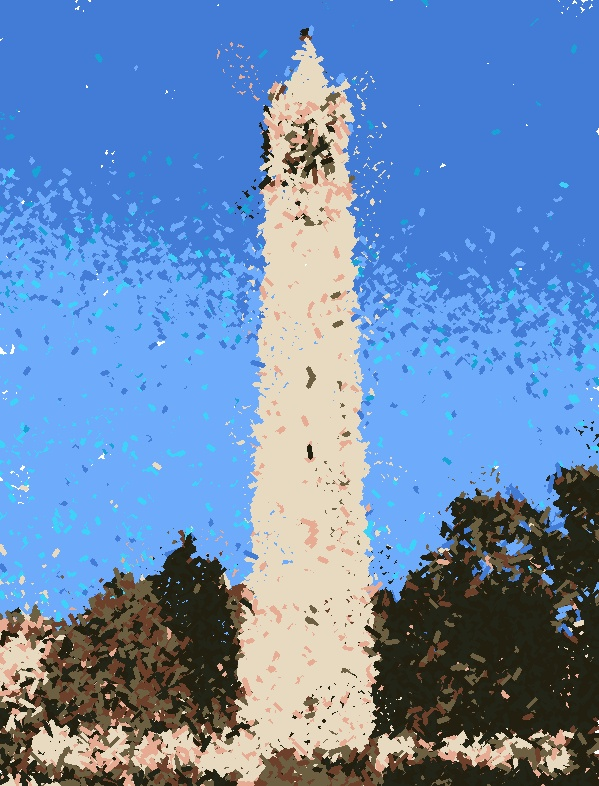
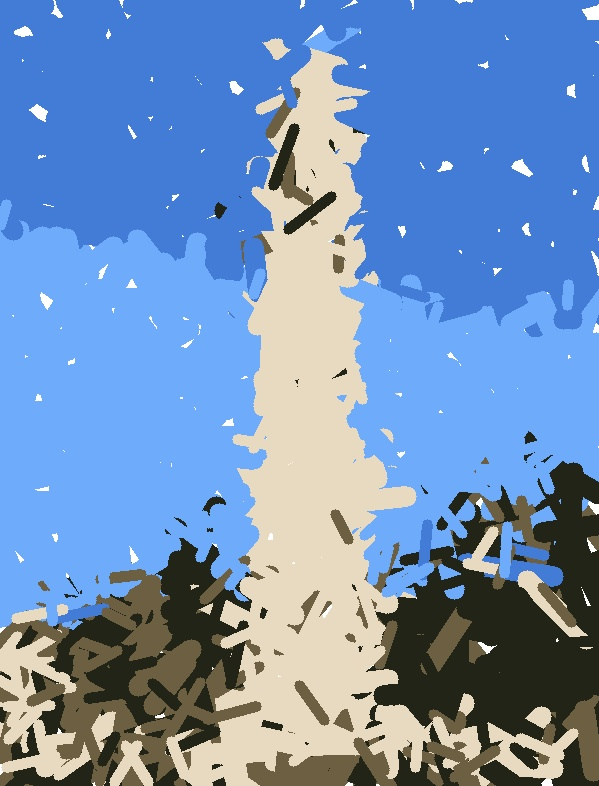
Add weighted_randomized_grid and reduce stroke count

diff --git a/Pointillism/main.py b/Pointillism/main.py
@@ -6,12 +6,13 @@ from pointillism import *
 from pointillism.paint import Paint
 
 
+
 parser = argparse.ArgumentParser(description='...')
 parser.add_argument('--palette-size', default=5, type=int, help="Number of colors of the base palette")
 parser.add_argument('--stroke-scale', default=3, type=int, help="Scale of the brush strokes (0 = automatic)")
 parser.add_argument('--gradient-smoothing-radius', default=5, type=int, help="Radius of the smooth filter applied to the gradient (0 = automatic)")
 parser.add_argument('--limit-image-size', default=800, type=int, help="Limit the image size (0 = no limits)")
-parser.add_argument('img_path', nargs='?', default="images/campanile.jpeg")
+parser.add_argument('img_path', nargs='?', default="Pointillism/images/campanile.jpeg")
 
 args = parser.parse_args()
 
@@ -38,13 +39,14 @@ gray = cv2.cvtColor(img, cv2.COLOR_BGR2GRAY)
 
 print("Computing color palette...")
 palette = ColorPalette.from_image(img, args.palette_size)
+print(palette)
 
 print("Extending color palette...")
-palette = palette.extend([(-15, 50, 0)]) # palette.extend([(0, 50, 0), (15, 30, 0), (-15, 30, 0)])
+palette = palette.extend([(0, 50, 0), (15, 30, 0), (-15, 30, 0)]) # palette.extend([(0, 50, 0), (15, 30, 0), (-15, 30, 0)])
 
-# # display the color palette
-# cv2.imshow("palette", palette.to_image())
-# cv2.waitKey(200)
+# display the color palette
+cv2.imshow("palette", palette.to_image())
+cv2.waitKey(200)
 
 print("Computing gradient...")
 gradient = VectorField.from_gradient(gray)
@@ -52,25 +54,39 @@ gradient = VectorField.from_gradient(gray)
 print("Smoothing gradient...")
 gradient.smooth(gradient_smoothing_radius)
 
-# print("Displaying gradient...")
-# gradient.display_direction()
-
 print("Drawing image...")
 # create a "cartonized" version of the image to use as a base for the painting
-res = cv2.medianBlur(img, 11)
-res = np.ones_like(res) * 255
+ref = cv2.medianBlur(img, 11)
+res = np.ones_like(img) * 255
 
-# define a randomized grid of locations for the brush strokes
-grid = randomized_grid(img.shape[0], img.shape[1], scale=30)
-print(len(grid))
+# define a randomized base grid of locations for the brush strokes
+baseGrid = randomized_grid(img.shape[0], img.shape[1], scale=30)
+print(len(baseGrid))
 batch_size = 10000
 
-base = Paint(img, res, palette, gradient, 30, 30, batch_size)
+base = Paint(img, res, palette, gradient, 30, baseGrid, batch_size)
 base.draw_strokes()
 
-paint = Paint(img, res, palette, gradient, stroke_scale, 5, batch_size)
-paint.draw_strokes()
+# define a coarse grid of locations for brush strokes
+img_weight = cv2.subtract(ref, res)
+img_weight = cv2.cvtColor(img_weight, cv2.COLOR_BGR2GRAY)
+medGrid = weighted_randomized_grid(img_weight, 10, bias=0.5)
+# medGrid = randomized_grid(img.shape[0], img.shape[1], scale=10)
+print(len(medGrid))
+coarse = Paint(img, res, palette, gradient, 10, medGrid, batch_size)
+coarse.draw_strokes(reduce=True)
 
-cv2.imshow("res", limit_size(res, 1080))
-cv2.imwrite(res_path, res)
-cv2.waitKey(0)
+# define a finer grid of locations for the brush strokes
+img_weight = cv2.subtract(ref, res)
+img_weight = cv2.cvtColor(img_weight, cv2.COLOR_BGR2GRAY)
+fineGrid = weighted_randomized_grid(img_weight, 3, bias=0.3)
+
+# fineGrid = randomized_grid(img.shape[0], img.shape[1], scale=2)
+print(len(fineGrid))
+
+paint = Paint(img, res, palette, gradient, 4, fineGrid, batch_size)
+paint.draw_strokes(reduce=True)
+
+# cv2.imshow("res", limit_size(res, 1080))
+# cv2.imwrite(res_path, res)
+# cv2.waitKey(0)

diff --git a/Pointillism/pointillism/paint.py b/Pointillism/pointillism/paint.py
@@ -4,40 +4,53 @@ import progressbar
 from pointillism import *
 
 class Paint:
-  def __init__(self, img, res, palette, gradient, stroke_scale, grid_scale, batch_size):
+  def __init__(self, img, res, palette, gradient, stroke_scale, grid, batch_size):
     self.img = img
     self.res = res
     self.palette = palette
     self.gradient = gradient
     self.stroke_scale = stroke_scale
-    self.grid_scale = grid_scale
     self.batch_size = batch_size
-    self.grid = randomized_grid(img.shape[0], img.shape[1], scale=grid_scale)
+    self.grid = grid
+    self.skipped = 0
+    self.strokes = 0
+    self.passed = np.ones_like(img) * 255
 
-  def draw_strokes(self):
-    # display the color palette
-    cv2.imshow("palette", self.palette.to_image())
-    cv2.waitKey(200)
-
+  def draw_strokes(self, reduce=False):
     bar = progressbar.ProgressBar()
     for h in bar(range(0, len(self.grid), self.batch_size)):
       pixels = np.array([self.img[x[0], x[1]] for x in self.grid[h:min(h + self.batch_size, len(self.grid))]])
-      color_probabilities = compute_color_probabilities(pixels, self.palette, k=9)
+      color_probabilities = compute_color_probabilities(pixels, self.palette, k=90)
 
       for i, (y, x) in enumerate(self.grid[h:min(h + self.batch_size, len(self.grid))]):
-        self.draw_stroke(x, y, color_probabilities[i])
+        self.draw_stroke(x, y, color_probabilities[i], reduce=reduce)
         if (i % 100 == 0):
           cv2.imshow("res", limit_size(self.res, 1080))
           cv2.waitKey(1)
 
-  def draw_stroke(self, x, y, color_probability):
-    color = color_select(color_probability, self.palette)
+    print("Skipped %d strokes" % self.skipped)
+    print("Drew %d strokes" % self.strokes)
+    cv2.imshow("res", limit_size(self.res, 1080))
+    cv2.imshow("passed", limit_size(self.passed, 1080))
+    cv2.waitKey(0)
+
+  def draw_stroke(self, x, y, color_probability, reduce=False):
+    color = np.around(color_select(color_probability, self.palette))
+    curr = self.res[y, x]
+    
+    self.strokes += 1
     angle = math.degrees(self.gradient.direction(y, x)) + 90
-    length = int(round(2 * self.stroke_scale + self.stroke_scale * math.sqrt(self.gradient.magnitude(y, x)) / 2))
+    length = int(round(2 * self.stroke_scale + 1 * self.stroke_scale * math.sqrt(self.gradient.magnitude(y, x)) / 2))
 
     half_length = length // 2
     dx = half_length * math.cos(angle)
     dy = half_length * math.sin(angle)
     start_point = (int(x - dx), int(y - dy))
     end_point = (int(x + dx), int(y + dy))
+
+    if (color.astype(np.uint8) == self.res[y, x]).all() and reduce:
+      cv2.line(self.passed, start_point, end_point, color, self.stroke_scale)
+      self.skipped += 1
+      return
     cv2.line(self.res, start_point, end_point, color, self.stroke_scale)
+    

diff --git a/Pointillism/pointillism/__init__.py b/Pointillism/pointillism/__init__.py
@@ -1,10 +1,12 @@
 import bisect
 import scipy.spatial
 import numpy as np
+import cv2
 import random
 from .utils import regulate, limit_size, clipped_addition
 from .vector_field import VectorField
 from .color_palette import ColorPalette
+import matplotlib.pyplot as plt
 
 
 def compute_color_probabilities(pixels, palette, k=9):
@@ -44,3 +46,34 @@ def randomized_grid(h, w, scale):
     random.shuffle(grid)
     return grid
 
+def weighted_randomized_grid(img_weight, scale, bias=0):
+    h, w = img_weight.shape
+    print(img_weight.shape)
+
+    # Normalize the grayscale values to the range [0, 1]
+    img_weight = (img_weight / np.max(img_weight)).astype(np.float32)
+    
+    assert (scale > 0)
+    r = scale//2
+
+    grid = []
+    for i in range(0, h, scale):
+        for j in range(0, w, scale):
+            y = random.randint(-r, r) + i
+            x = random.randint(-r, r) + j
+            
+            temp = random.uniform(0, 1)
+            if temp < (img_weight[i, j] + bias)**1.5:
+                grid.append((y % h, x % w))
+
+    random.shuffle(grid)
+    return grid
+
+def show_grid(grid):
+    # Unzip the grid into two lists
+    y_values, x_values = zip(*grid)
+    # Create a scatter plot
+    plt.scatter(x_values, y_values)
+    plt.gca().invert_yaxis()  # Invert y axis to match image coordinates
+    plt.show()
+    return
